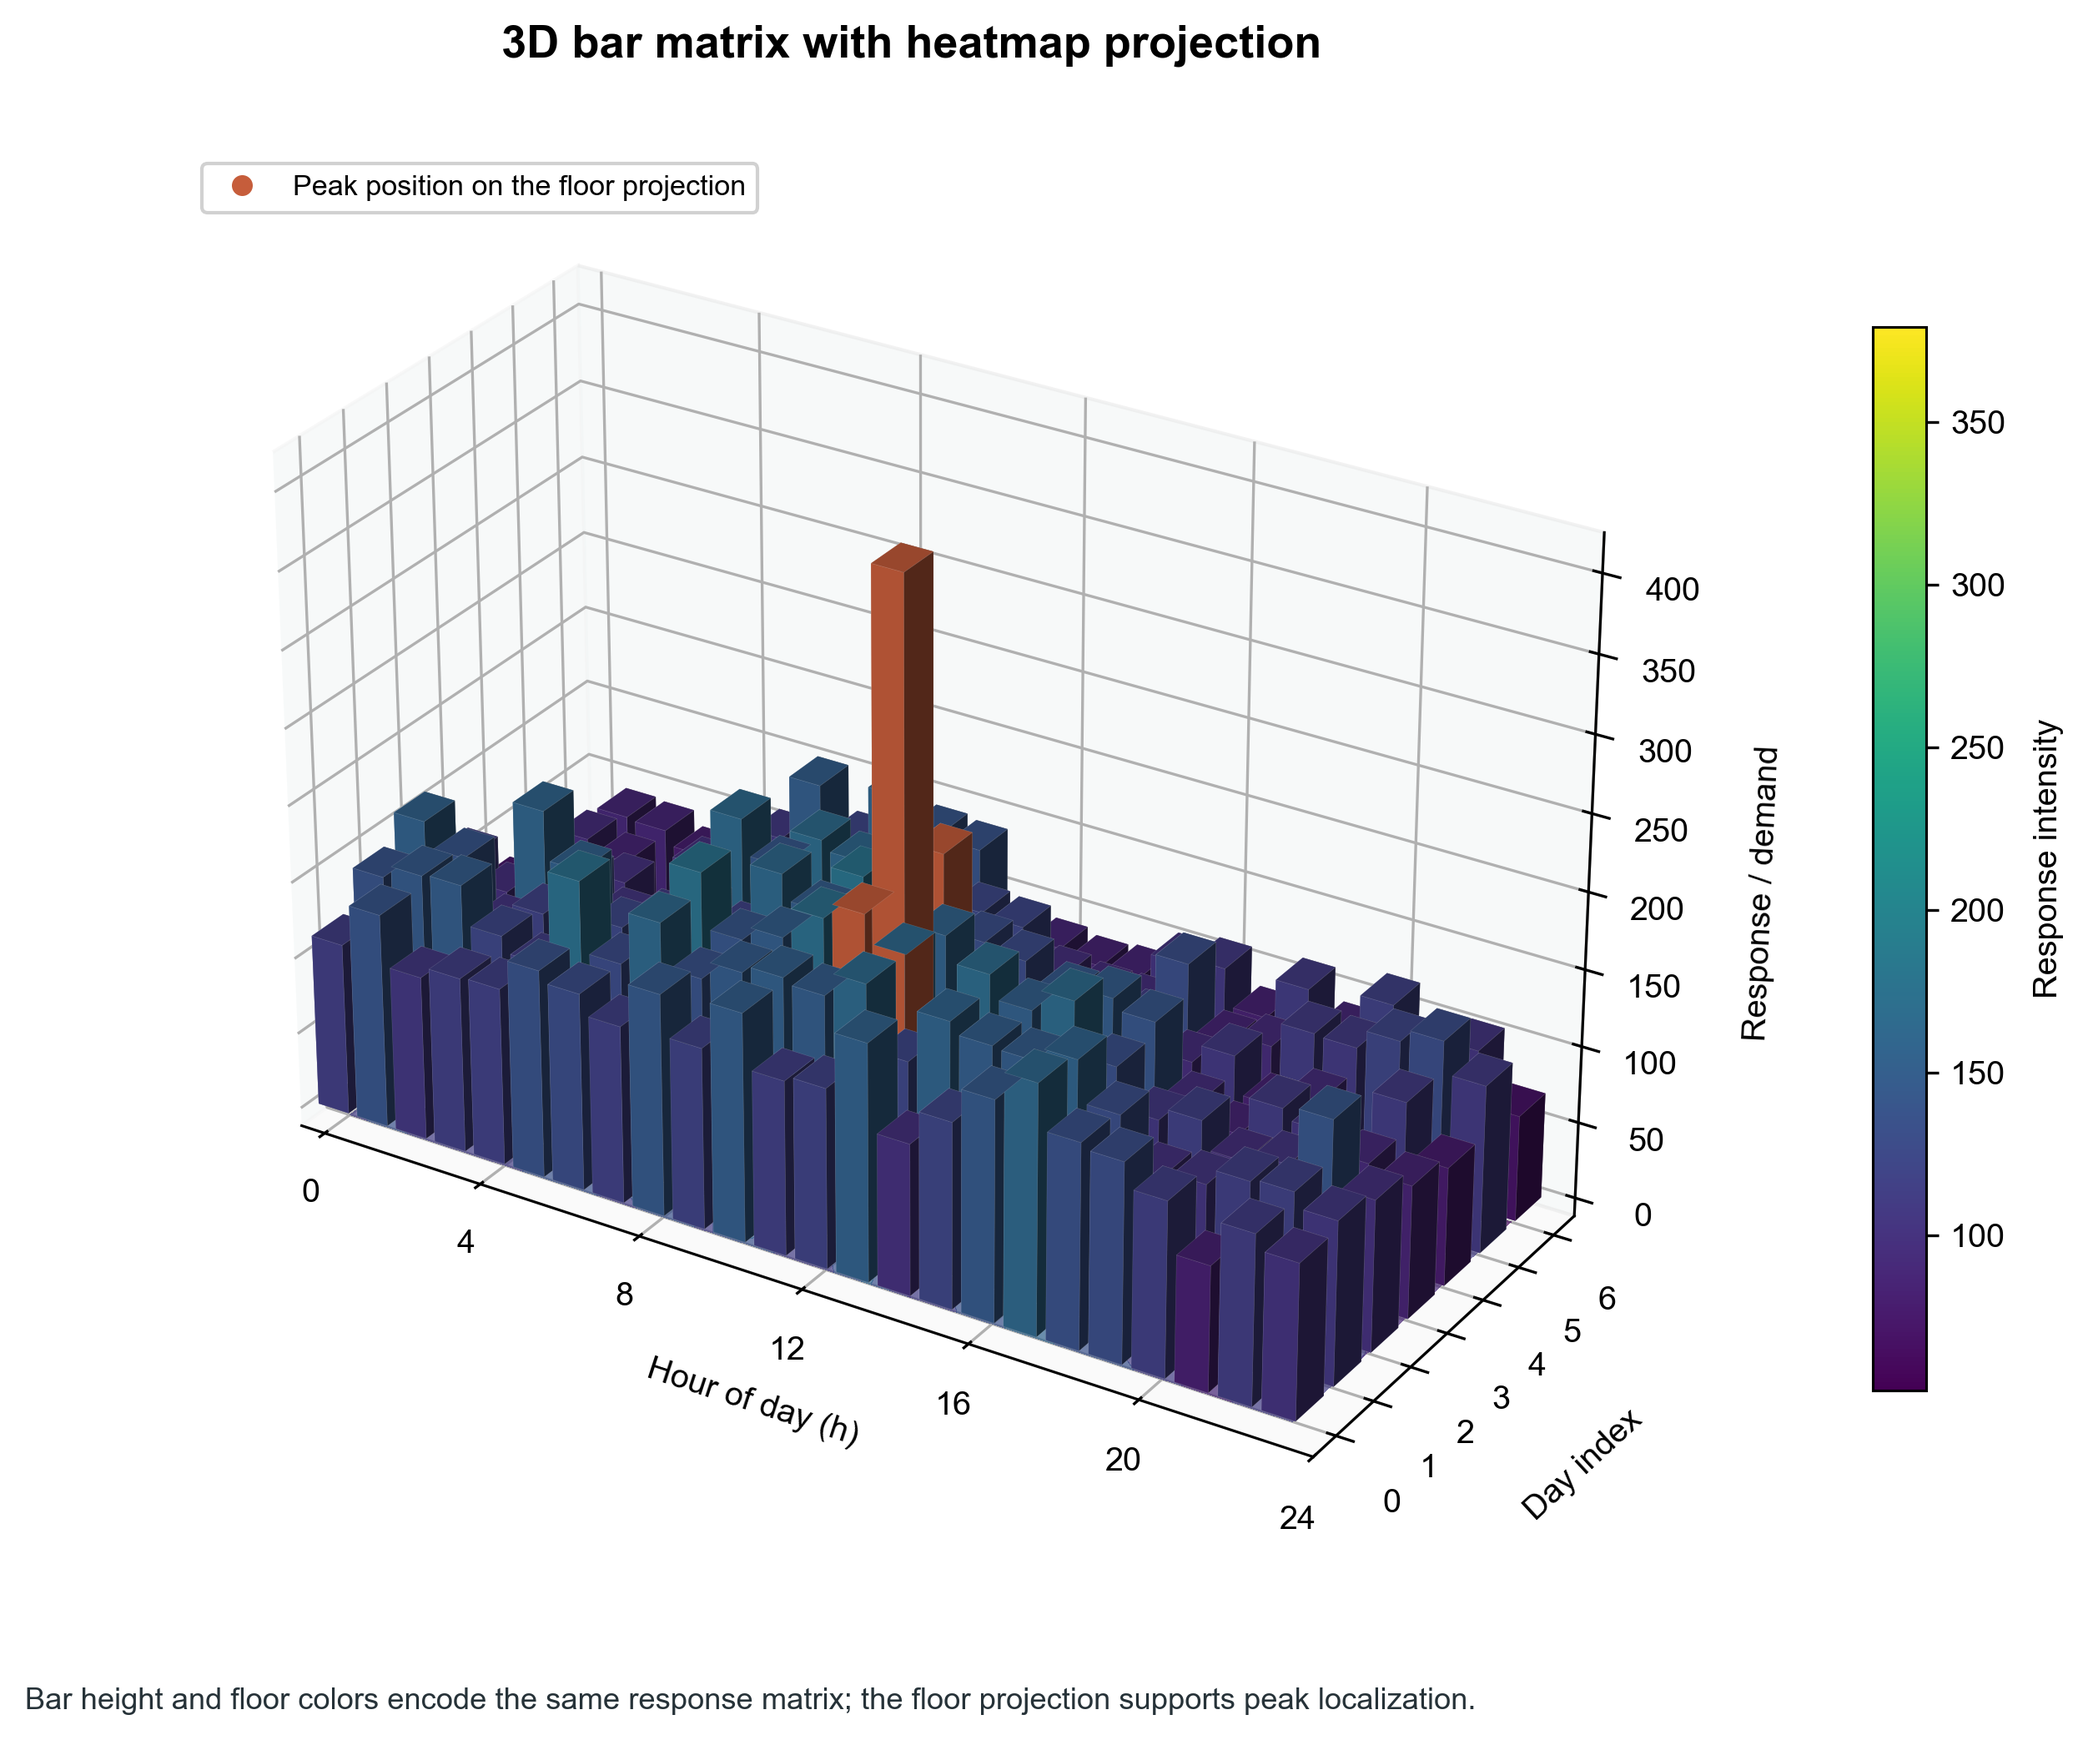
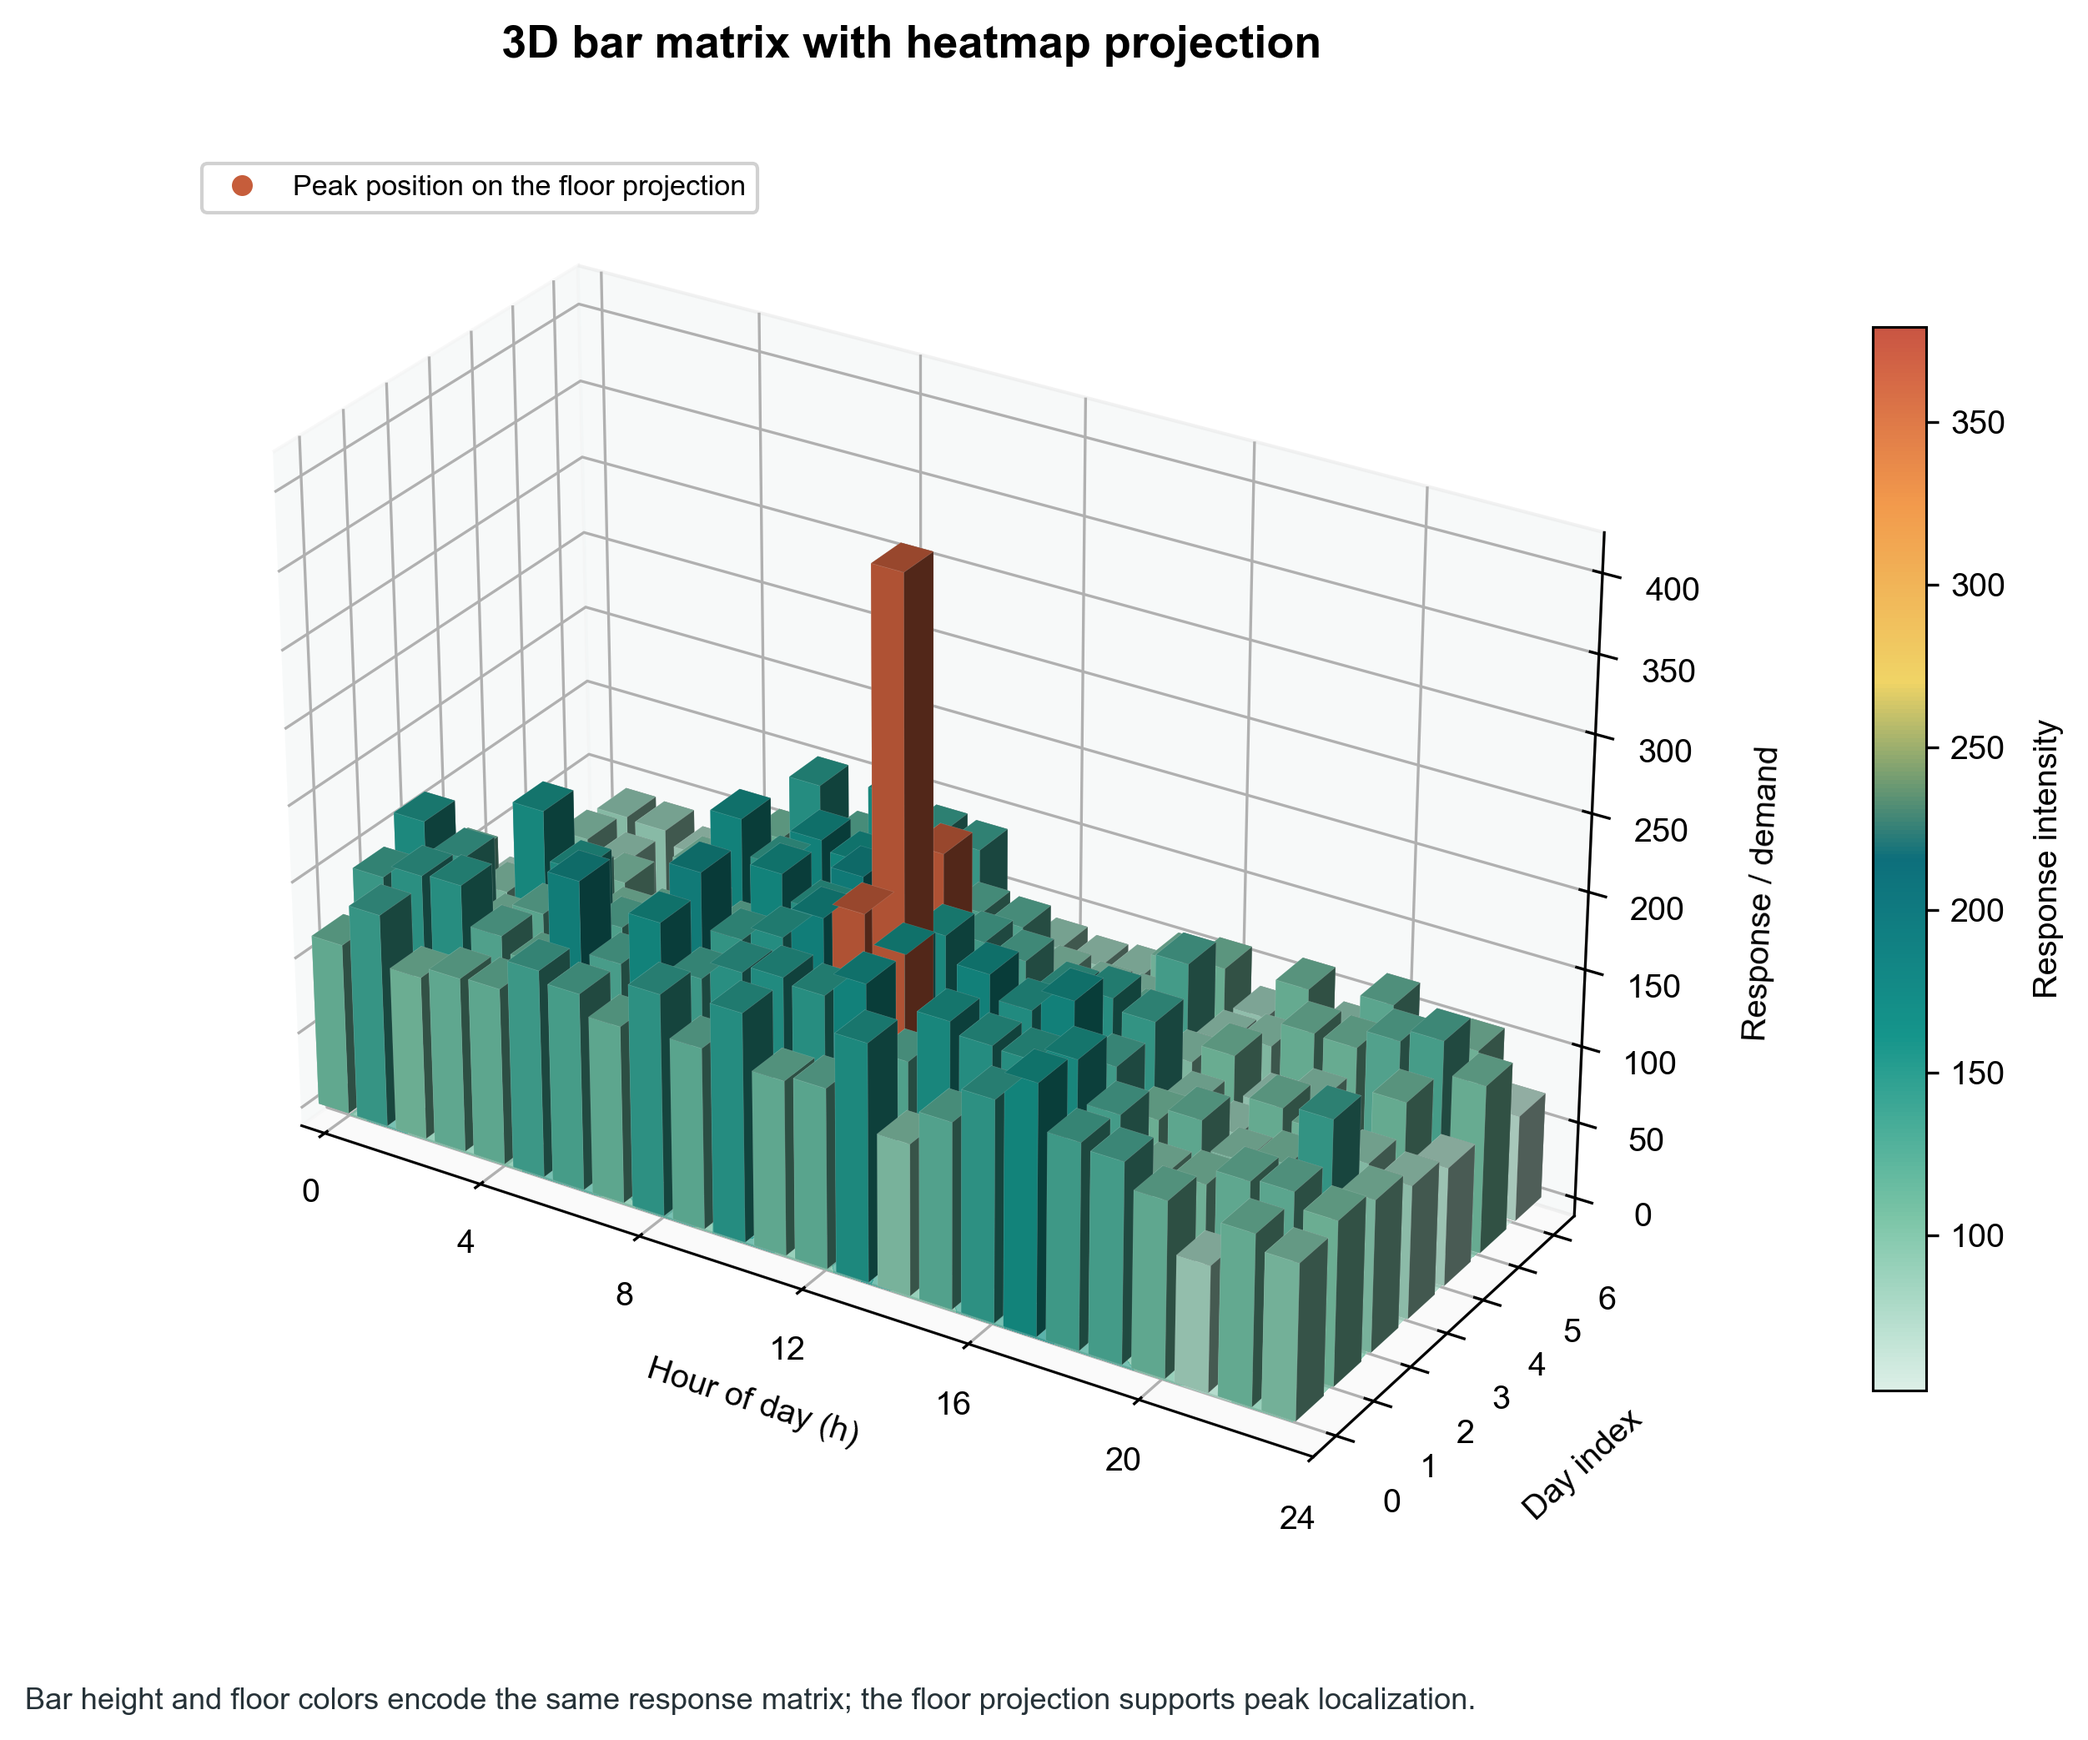
Apply reference palette to 3D bar matrix templates

Changed region(s): [[0.1247, 0.4362, 0.7479, 0.8102], [0.8726, 0.187, 0.9349, 0.5297], [0.8726, 0.5609, 0.9349, 0.8102]]

diff --git a/scripts/palette.py b/scripts/palette.py
@@ -6,6 +6,8 @@ The original 33 templates are restored directly; newly added templates use these
 same legacy-compatible tokens.
 """
 
+from matplotlib.colors import LinearSegmentedColormap
+
 INK = "#263238"
 MUTED = "#667784"
 GRID = "#B8C2C9"
@@ -25,6 +27,24 @@ QUALITATIVE = ["#2D214C", "#8F3032", "#C47B4B", "#3C8849", "#242585", PRIMARY, S
 SEQUENTIAL = "viridis"
 SEQUENTIAL_SAFE = "magma"
 DIVERGING = "RdBu_r"
+
+# Dedicated continuous scale for 3D response surfaces, bar matrices, volumes,
+# and vector-field magnitudes. It follows the reference visual language:
+# pale mint/teal at low values, yellow at the middle, and warm orange/red at
+# high values. Categorical 3D scatter plots should keep using QUALITATIVE.
+THREED = LinearSegmentedColormap.from_list(
+    "scientific_3d",
+    [
+        "#DCEFE7",
+        "#78C3A5",
+        "#15958B",
+        "#0D6F7B",
+        "#F0D466",
+        "#F29A4C",
+        "#C95543",
+    ],
+    N=256,
+)
 
 
 def categorical(n: int) -> list[str]:

diff --git a/scripts/templates/make_3d_bar_heatmap.py b/scripts/templates/make_3d_bar_heatmap.py
@@ -16,6 +16,8 @@ from matplotlib.lines import Line2D
 from matplotlib.colors import Normalize
 import numpy as np
 
+from palette import THREED
+
 
 def configure_matplotlib() -> None:
     mpl.rcParams.update(
@@ -61,7 +63,7 @@ def main() -> None:
     ax = fig.add_axes([0.07, 0.08, 0.78, 0.82], projection="3d")
     dx = float(hours[1] - hours[0])
     dy = float(days[1] - days[0])
-    colors = plt.cm.viridis(norm(heights.ravel()))
+    colors = THREED(norm(heights.ravel()))
     ax.bar3d(
         (xx.ravel() - dx * 0.43),
         (yy.ravel() - dy * 0.40),
@@ -100,7 +102,7 @@ def main() -> None:
     ax.zaxis.pane.set_facecolor((0.97, 0.97, 0.97, 0.30))
     ax.grid(True, color="#b7c2c2", alpha=0.28, linewidth=0.55)
 
-    sm = ScalarMappable(norm=norm, cmap="viridis")
+    sm = ScalarMappable(norm=norm, cmap=THREED)
     sm.set_array(heights)
     cbar = fig.colorbar(sm, ax=ax, fraction=0.035, pad=0.10, shrink=0.73)
     cbar.set_label("Bar height / response (kWh)", labelpad=8)

diff --git a/scripts/templates/make_3d_bar_heat_projection.py b/scripts/templates/make_3d_bar_heat_projection.py
@@ -16,7 +16,7 @@ from matplotlib.colors import Normalize
 from matplotlib.lines import Line2D
 import numpy as np
 
-from palette import GRID, HIGHLIGHT, INK, SEQUENTIAL
+from palette import GRID, HIGHLIGHT, INK, THREED
 
 
 def response_matrix(hours: np.ndarray, days: np.ndarray) -> np.ndarray:
@@ -55,7 +55,7 @@ def main() -> None:
     xx, yy = np.meshgrid(hours, days)
     values = response_matrix(hours, days)
     norm = Normalize(vmin=float(values.min()), vmax=float(values.max()))
-    cmap = plt.get_cmap(SEQUENTIAL)
+    cmap = THREED
     colors = cmap(norm(values.ravel()))
     peak_mask = values.ravel() >= np.quantile(values, 0.985)
     colors[peak_mask] = mpl.colors.to_rgba(HIGHLIGHT)

diff --git a/SKILL.md b/SKILL.md
@@ -1,6 +1,6 @@
 ---
 name: scientific-data-visualization
-description: "Use this skill for data-driven scientific visualizations: selecting or reviewing an appropriate chart type, reproducing built-in scientific figure templates, or creating custom research plots. Especially applies to 科研绘图模板, 3D柱阵/响应面/散点/体数据/向量场, 混淆矩阵, Bland–Altman一致性图, MA图, 富集点图, Treemap/Sunburst, 瀑布图, 时间序列置信带, 事件时间线, OHLC/K线, DET与学习曲线, GSEA曲线, SHAP蜂群柱状图, 配对云雨图, 交叉验证ROC, PR与校准曲线, 生存曲线, 残差诊断, 曼哈顿图, 泰勒图, 相关矩阵组合图, 预测真实值边缘分布图, TPE调参3D曲面, 下三角相关矩阵半边小提琴图, 分组环形热图, 城市公园降温组合图, Nature和弦图, 热图, 火山图, 降维图, or 数据可视化选图. It does not cover editable conceptual diagrams, which belong to separate conceptual-diagram skills."
+description: "Use this skill for data-driven scientific visualizations: selecting or reviewing an appropriate chart type, reproducing built-in scientific figure templates, or creating custom research plots. Especially applies to 科研绘图模板, 3D柱阵/响应面/散点/体数据/向量场, 混淆矩阵, Bland–Altman一致性图, MA图, 富集点图, Treemap/Sunburst, 瀑布图, 时间序列置信带, 事件时间线, OHLC/K线, DET与学习曲线, GSEA曲线, SHAP蜂群柱状图, 配对云雨图, 交叉验证ROC, PR与校准曲线, 生存曲线, 残差诊断, 曼哈顿图, 泰勒图, 相关矩阵组合图, 预测真实值边缘分布图, TPE调参3D曲面, 下三角相关矩阵半边小提琴图, 分组环形热图, 城市公园降温组合图, Nature和弦图, 热图, 火山图, 降维图, or 数据可视化选图. It does not cover editable conceptual diagrams, which belong to scibox-diagram."
 allowed-tools: Bash(*), Read, Write, Edit, Grep, Glob
 ---
 
@@ -20,7 +20,7 @@ When the requested chart is not a named template, first establish the visual con
 - Use volcano plots only for effect size against a stated p or adjusted-p value, with threshold and label-selection rules.
 - Use Sankey, chord, circos, maps, ternary, or UpSet plots only when their underlying flow, relationship, spatial, compositional, or set-intersection structure is real. Do not choose them merely for ornament.
 - Use 3D only when the third coordinate carries a real spatial, temporal, or response meaning. For a discrete x/y matrix with magnitude z, use a 3D bar matrix only when height adds interpretation; otherwise prefer a 2D heatmap. For a dense discrete matrix, `3d-bar-heat-projection` adds a floor heatmap/contour projection to localize peaks without relying on perspective alone. For two continuous inputs and a response, use a response surface with contours or a ground projection to preserve readability. Add a path overlay only when it represents a real trajectory or optimization path, not a decorative stroke.
-- Use the shared legacy-compatible palette in `scripts/palette.py`: `QUALITATIVE` for unordered groups, `viridis`/`magma` for ordered numeric values, and `RdBu_r` for values centered on a meaningful midpoint. Avoid rainbow scales and red–green pairs; use shape, line type, or direct labels when color alone is insufficient.
+- Use the shared legacy-compatible palette in `scripts/palette.py`: `QUALITATIVE` for unordered groups, `THREED` for the continuous response values in `3d-bar-heatmap` and `3d-bar-heat-projection`, `viridis`/`magma` for other ordered numeric values, and `RdBu_r` for values centered on a meaningful midpoint. `THREED` runs from pale mint/teal through yellow to warm orange/red to match the reference palette for these two bar-matrix figures. Avoid rainbow scales and red–green pairs; use shape, line type, or direct labels when color alone is insufficient.
 - Use a precision–recall curve when the positive class is imbalanced or the operating point emphasizes retrieval; use a calibration/reliability diagram to judge probability agreement, not discrimination. Use Kaplan–Meier for time-to-event data with censoring and include censor marks and an at-risk table where space permits.
 - Use residual diagnostics to assess model adequacy (residuals vs fitted, Q–Q, scale–location, and influence/outlier screening). Use a Manhattan plot for genome-wide indexed association tests, with an explicit p-value scale and threshold.
 - Use a confusion matrix for class-wise error structure, Bland–Altman for agreement between two measurement methods, and an MA plot for mean-abundance versus fold-change structure. Use enrichment dot plots when pathway identity, gene ratio, count, and adjusted significance must be shown together.
@@ -67,7 +67,7 @@ python3 <skill-dir>/scripts/render_template.py --list
 When this figure is created for `academic-pipeline`, return the normal output
 paths together with a **Visual Asset Handoff** suitable for the paper's asset
 ledger or Material Passport attachment. Include: figure purpose and proposed
-caption, `source_skill: scientific-data-visualization`, the copied script path, PNG/PDF/SVG
+caption, `source_skill: scibox-figure`, the copied script path, PNG/PDF/SVG
 paths, the exact data provenance (`simulated` or the supplied data/result path),
 and validation performed. A simulated template remains illustrative and must not
 be presented as an empirical result. ARS should only cite the exported figure

diff --git a/references/palette-guide.md b/references/palette-guide.md
@@ -1,4 +1,4 @@
-# 科研数据可视化原始配色规范
+# scibox-figure 原始配色规范
 
 当前库默认恢复原始模板的视觉语言。旧模板保留各自的原始色值；新增模板
 使用下列兼容色板。配色先服从数据语义，再考虑装饰性：
@@ -6,10 +6,15 @@
 | 数据语义 | 默认选择 | 适用例子 |
 | --- | --- | --- |
 | 无序类别 | `QUALITATIVE`（深紫、砖红、棕橙、绿、靛蓝、青蓝、浅蓝、灰） | 分组散点、网络节点、模型比较 |
-| 有序数值 | `viridis` 或 `magma` | 热图、空间强度、3D 高度、密度 |
+| 有序数值 | `viridis` 或 `magma` | 热图、空间强度、密度 |
+| 连续 3D 柱阵/热力投影 | `THREED` | `3d-bar-heatmap`、`3d-bar-heat-projection` |
 | 围绕临界点/零值 | `RdBu_r`，并固定中心 | 相关、差异、残差、效应量 |
 | 强调路径/阈值 | `HIGHLIGHT = #C65D3B` | 轨迹、阈值线、关键标注 |
 | 背景和辅助线 | `PANEL`、`GRID`、`MUTED` | 面板底色、网格、说明文字 |
+
+## 3D 专用连续色板
+
+`THREED` 是参考图风格的连续色图：低值从浅薄荷绿/青绿色开始，中间过渡到黄绿色和黄色，高值进入暖橙与砖红。当前仅用于 `3d-bar-heatmap` 与 `3d-bar-heat-projection`，能同时保留低值区域的层次和高值峰值的醒目度。3D 聚类散点仍使用 `QUALITATIVE`，因为颜色表达的是类别而不是数值大小。
 
 ## 当前两类来源
 

diff --git a/README.md b/README.md
@@ -212,7 +212,7 @@ scientific-data-visualization/
 
 ## Palette
 
-`scripts/palette.py` keeps the original project palette as the default theme. Use `QUALITATIVE` for unordered groups, `viridis` or `magma` for ordered values, and `RdBu_r` for data centered on a meaningful midpoint. Do not define a conflicting color system inside individual templates.
+`scripts/palette.py` keeps the original project palette as the default theme. Use `QUALITATIVE` for unordered groups, `viridis` or `magma` for ordered values, and `RdBu_r` for data centered on a meaningful midpoint. The two bar-matrix templates, `3d-bar-heatmap` and `3d-bar-heat-projection`, use the dedicated `THREED` scale from pale mint/teal through yellow to warm orange/red. Do not define a conflicting color system inside individual templates.
 
 ## Content responsibility
 
